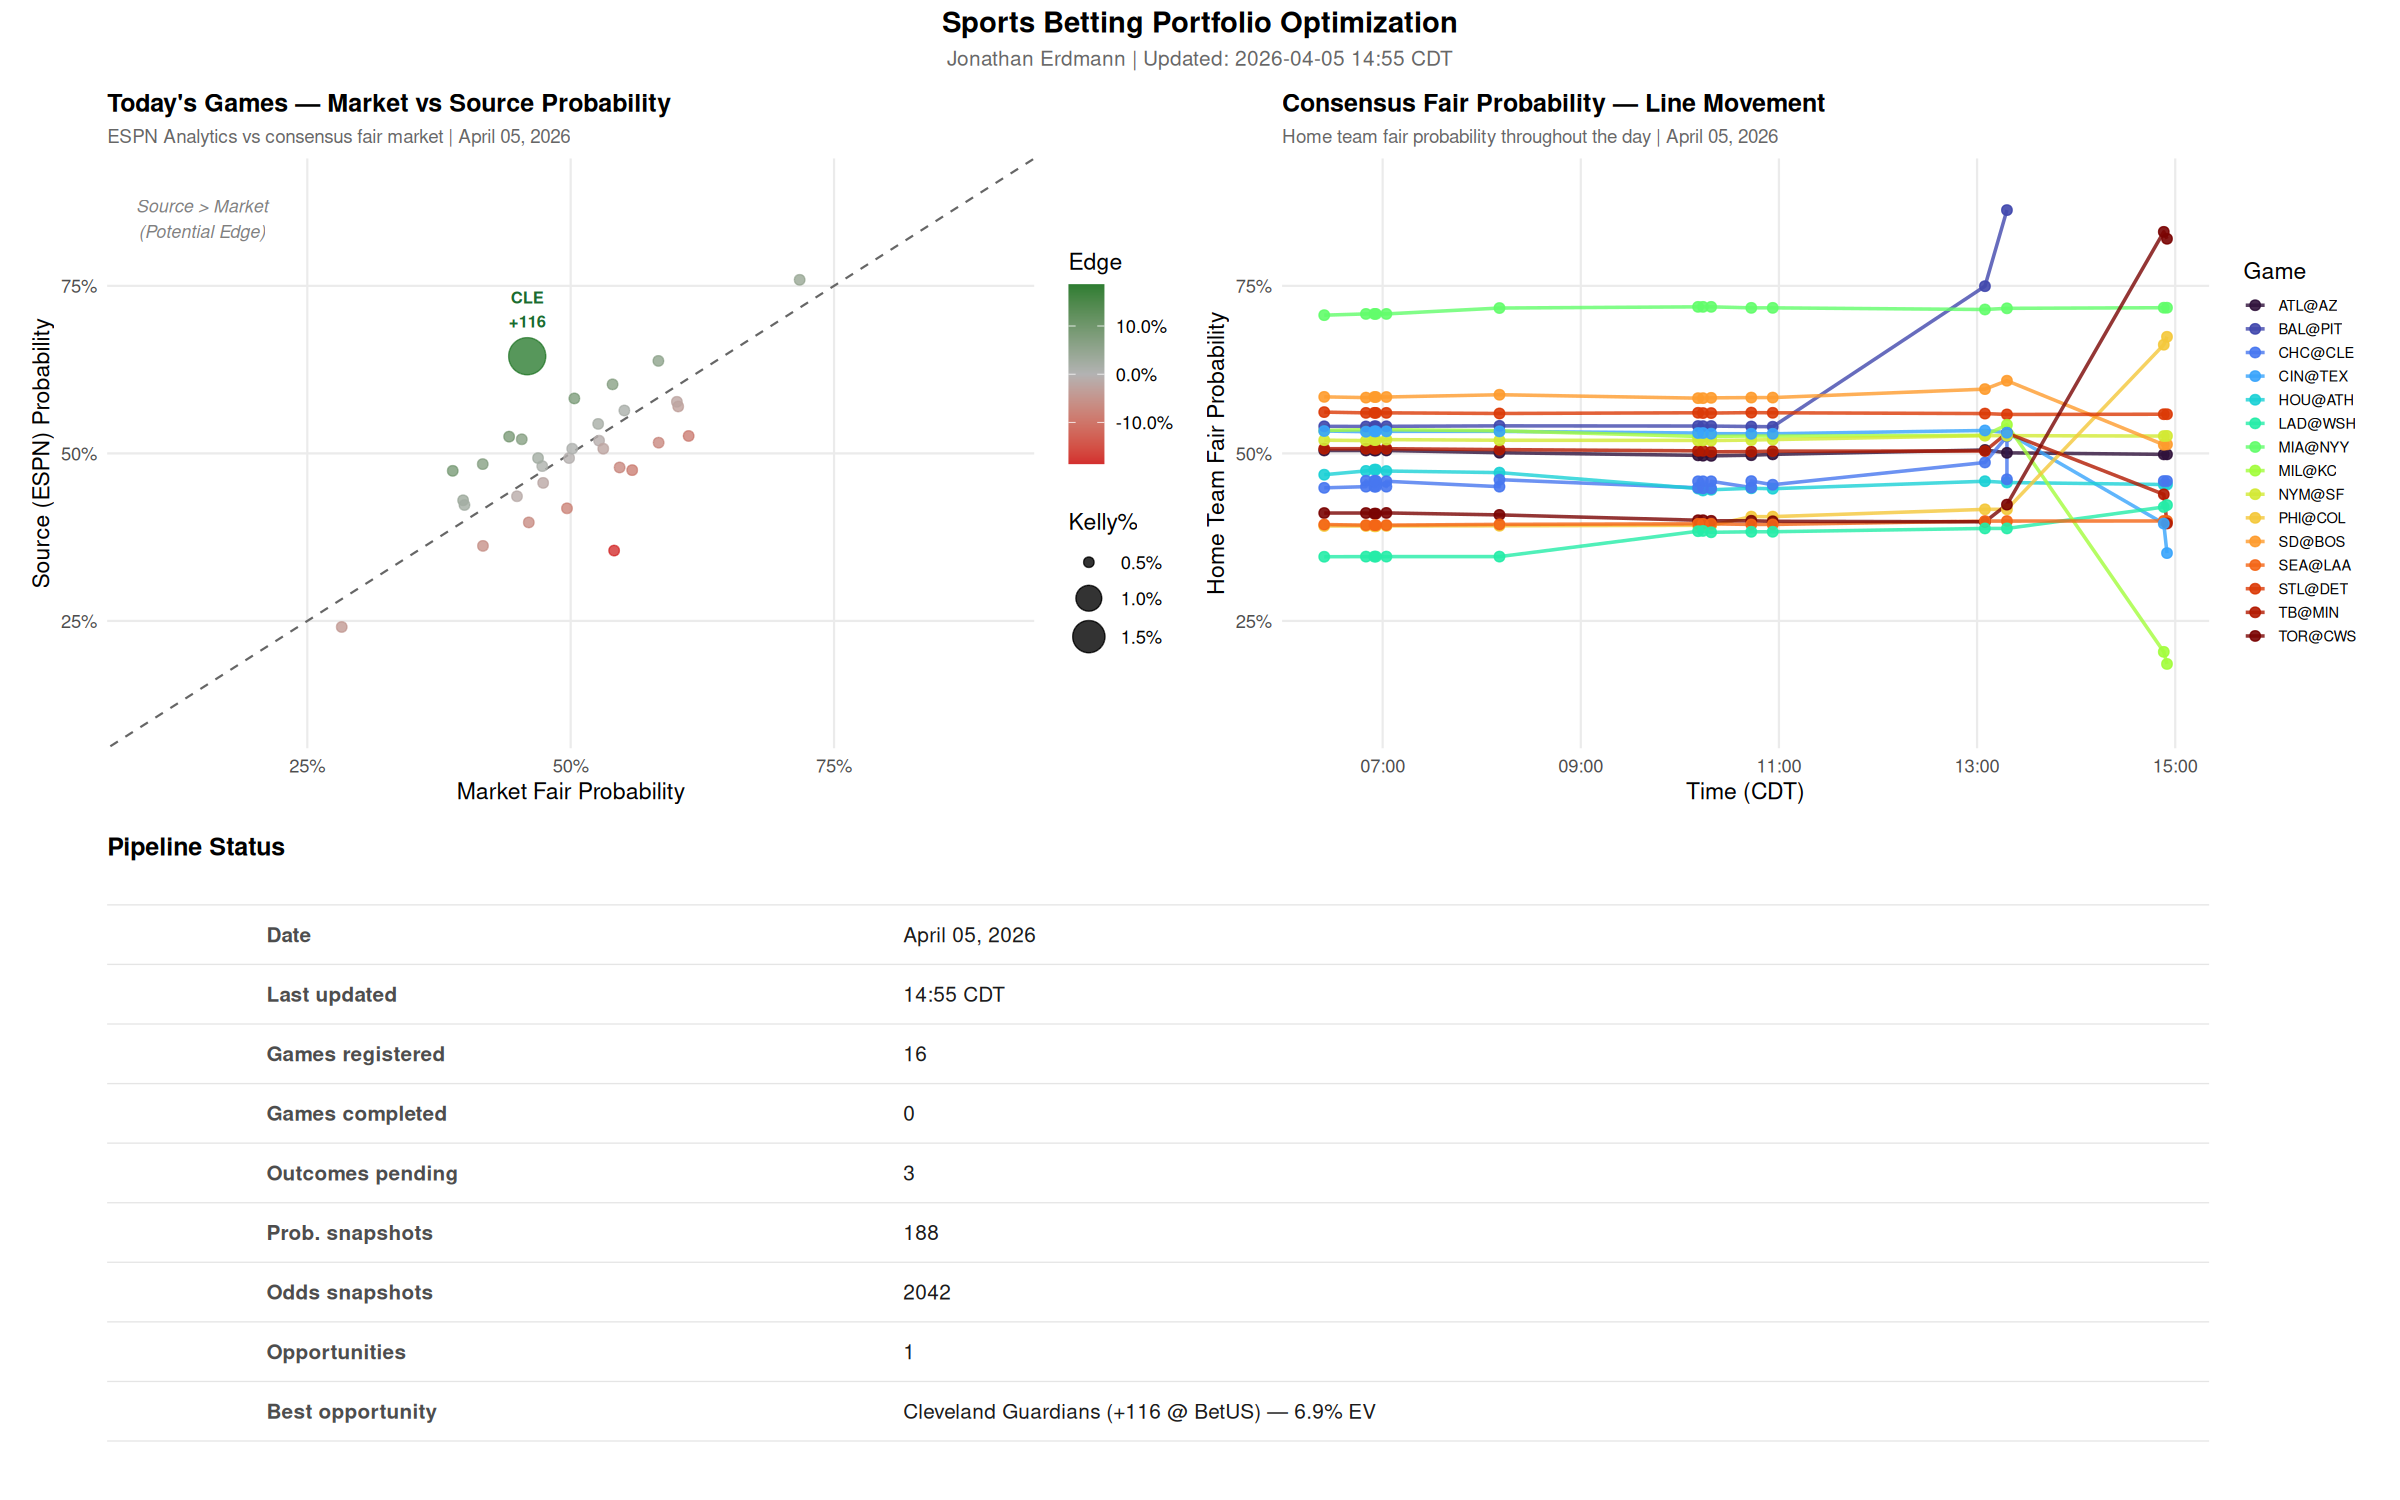
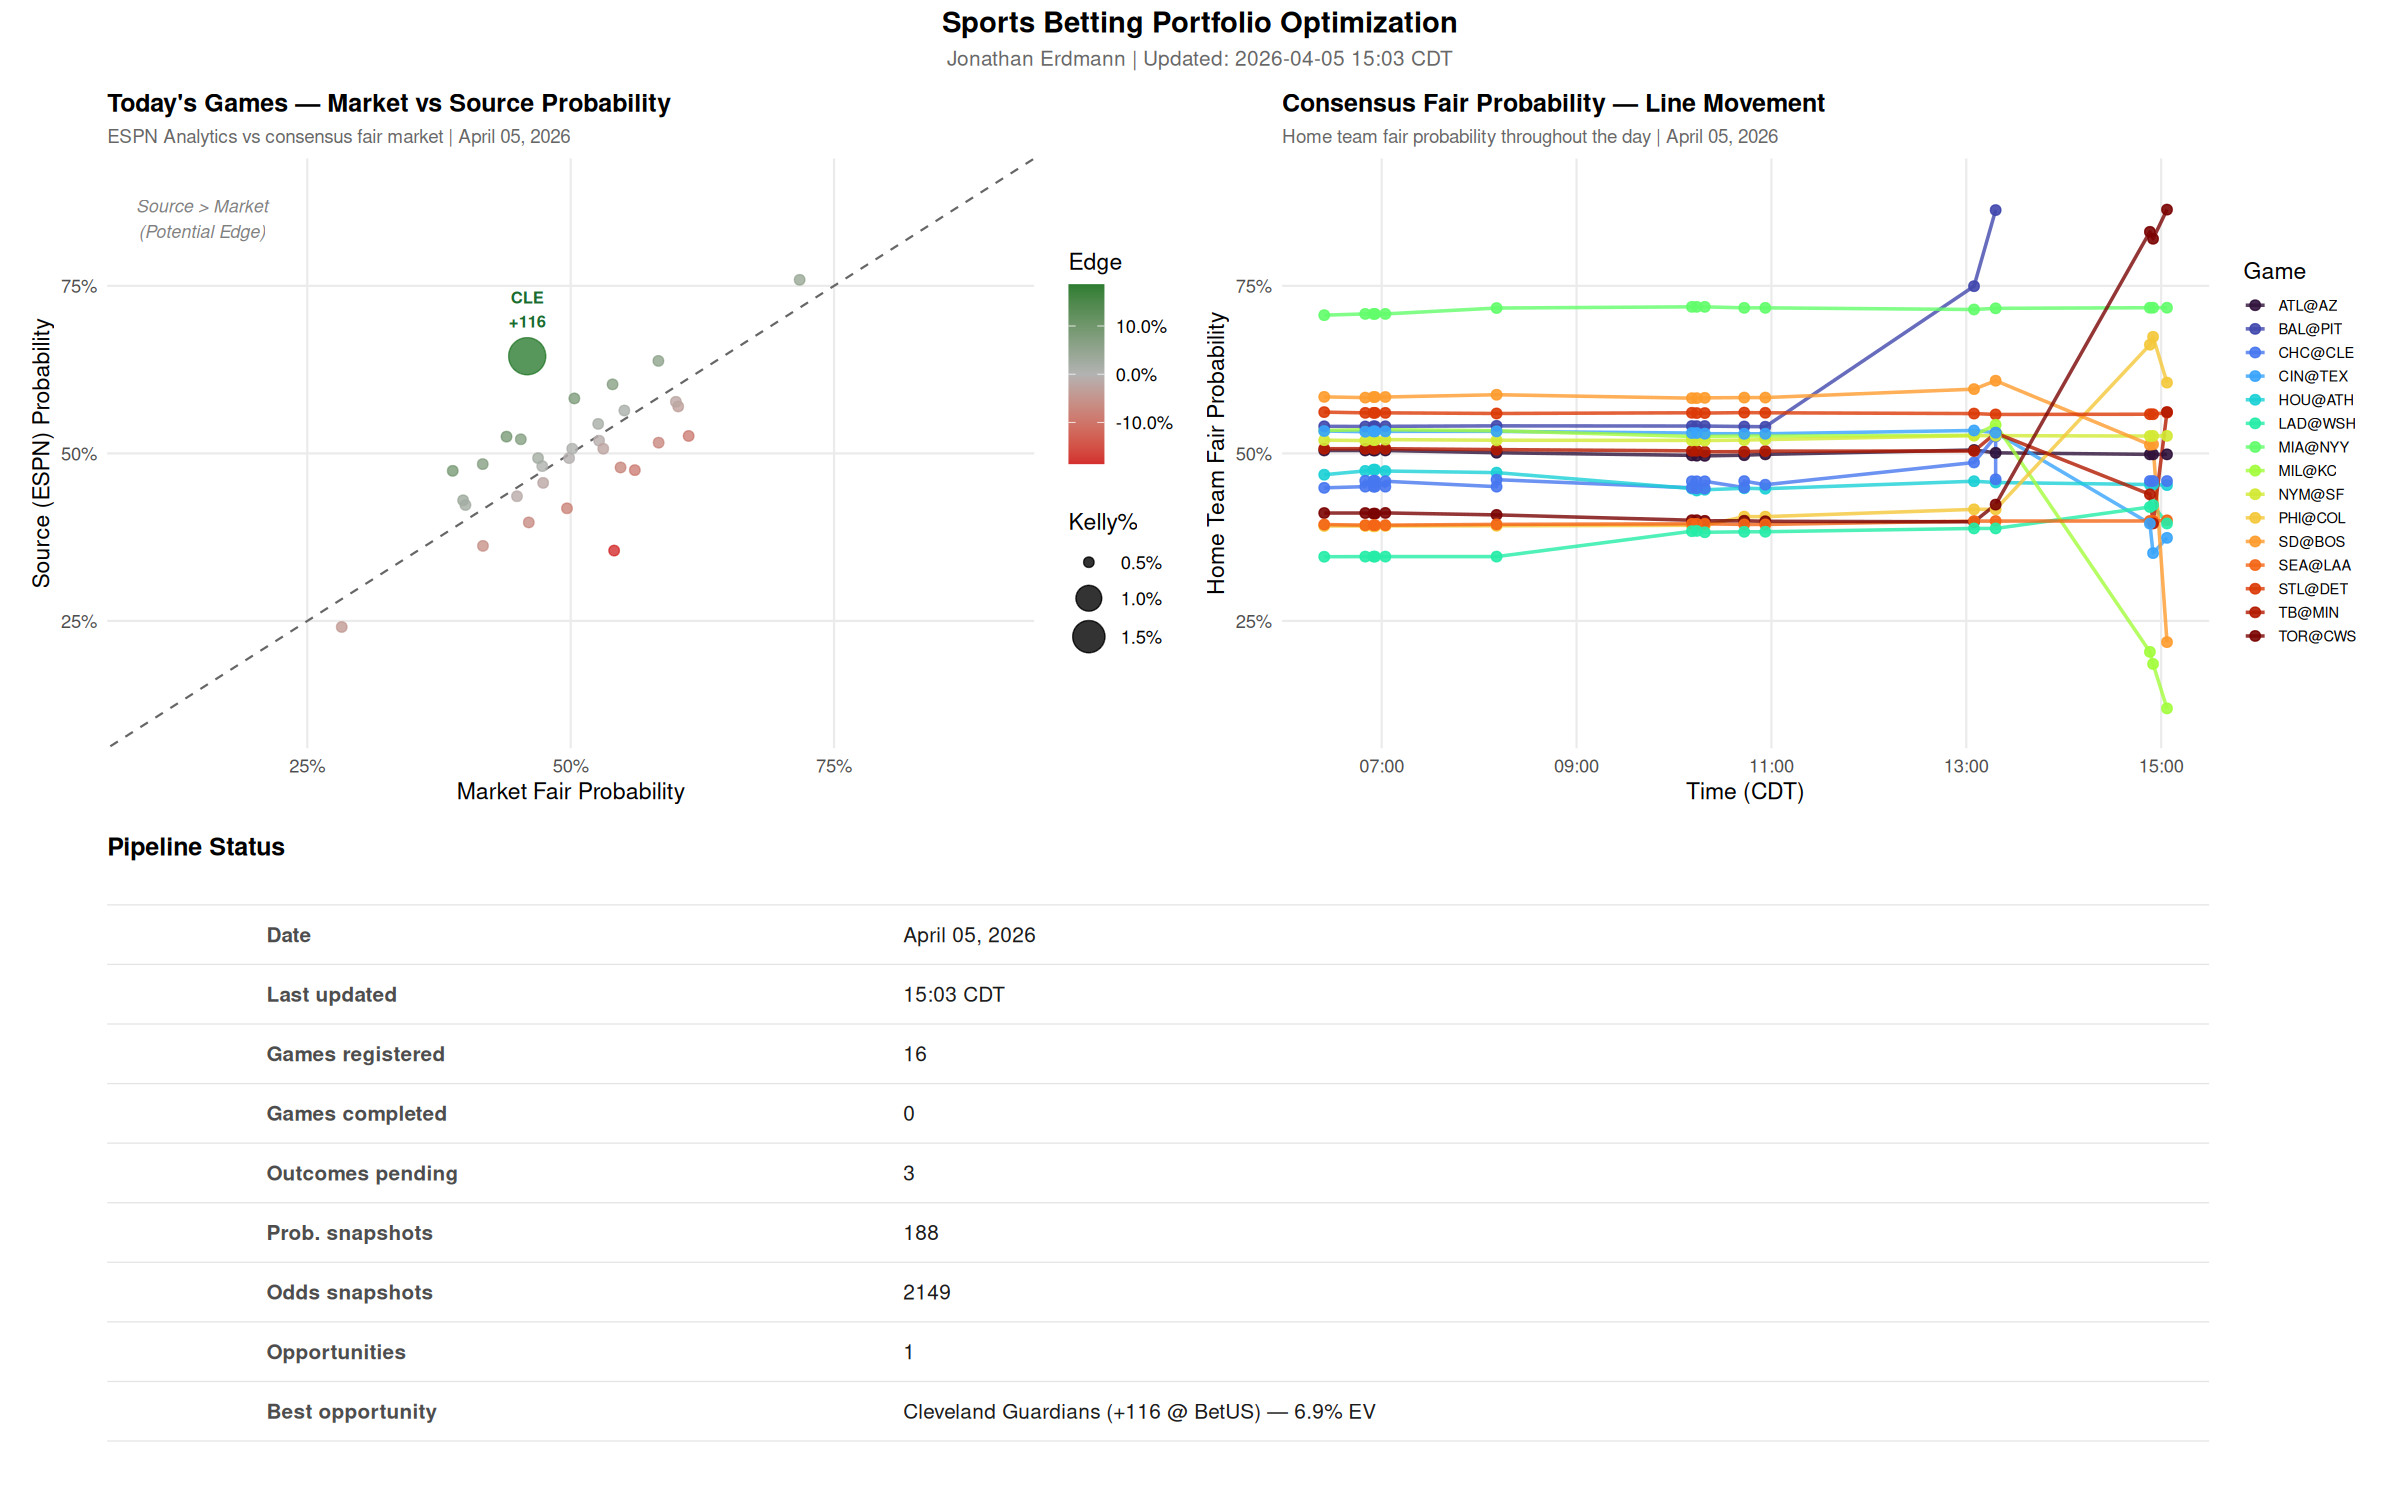
Update dashboard: 2026-04-05 15:03

diff --git a/projects/portfolio-optimization/dashboard.md b/projects/portfolio-optimization/dashboard.md
@@ -6,7 +6,7 @@ permalink: /projects/portfolio-optimization/dashboard/
 
 ## Daily Pipeline Dashboard
 
-**Last updated:** April 05, 2026 14:55 CDT
+**Last updated:** April 05, 2026 15:03 CDT
 
 ---
 
